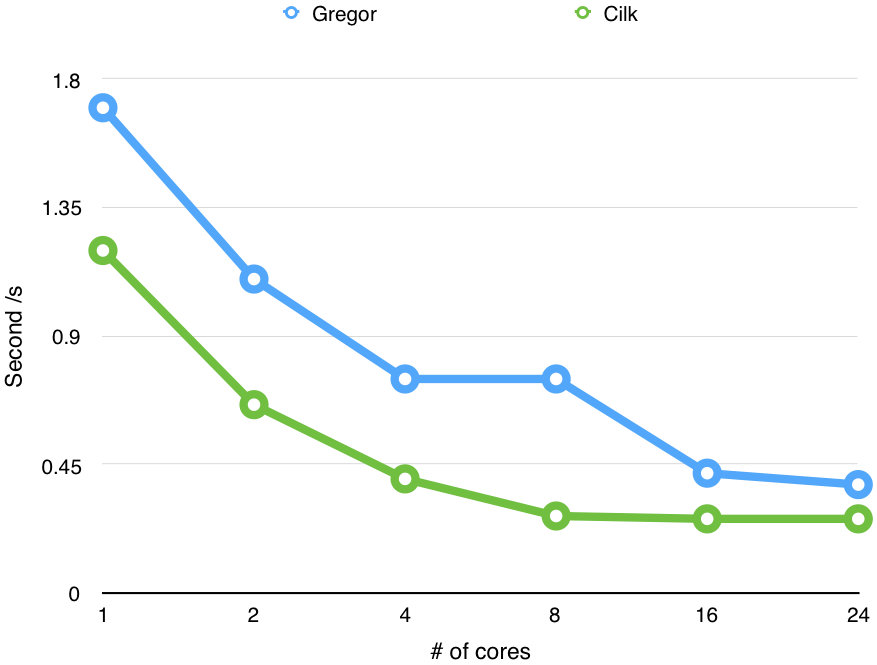
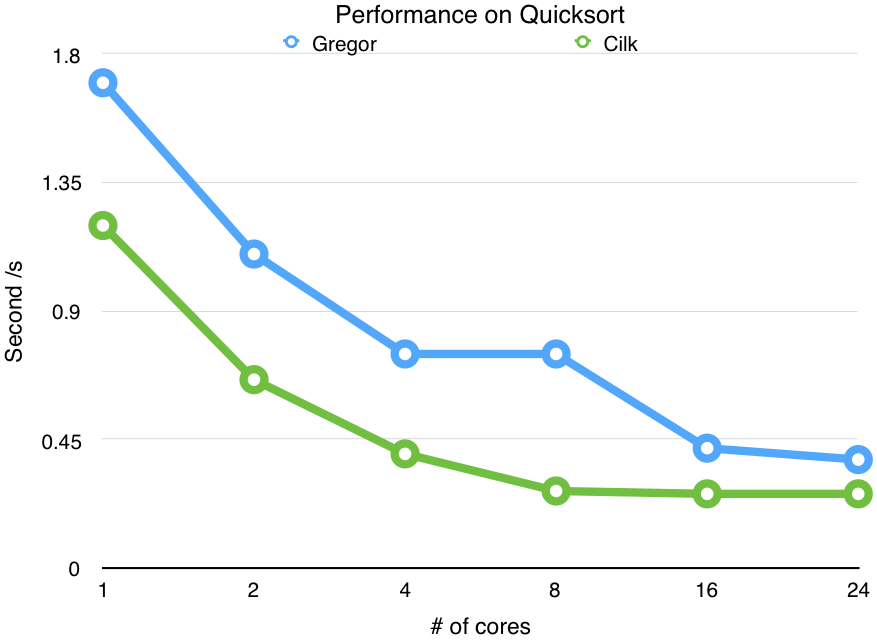
Site updated: 2016-05-08 15:47:42

diff --git a/report/index.html b/report/index.html
@@ -69,8 +69,9 @@ Summary
 Gregor is a worker-pool based multithreaded programming framework in C. It provides simple-to-use semantics of spawn and sync in Cilk, where the programmer simply identifies the i">
 <meta property="og:image" content="http://mallocanswer.github.io/3.png">
 <meta property="og:image" content="http://mallocanswer.github.io/1.png">
+<meta property="og:image" content="http://mallocanswer.github.io/4.png">
 <meta property="og:image" content="http://mallocanswer.github.io/5.png">
-<meta property="og:updated_time" content="2016-05-08T19:43:43.000Z">
+<meta property="og:updated_time" content="2016-05-08T19:47:36.000Z">
 <meta name="twitter:card" content="summary">
 <meta name="twitter:title" content="report">
 <meta name="twitter:description" content="Final Report
@@ -276,9 +277,11 @@ The applications are described below (the orginal implementation is from <sup cl
 <p><img src="1.png" alt="Different Applications"></p>
 <p>The chart shows our implementation has comparable performance with cilk. Interestingly, for<code>lu</code> when span of the algorithm decreases, the performance of cilk decreases aggresively (even slower than serial version) which indicates the non-trivial overhead of cilk scheduler. In other applications, the performance of our implementation is within 10% to 100% of cilk’s performance.</p>
 <h3>Performance on Different Number of Cores</h3>
-<p>In order to test the scalability of our implementation, we run <code>lu</code> application multiple times with different number of cores.</p>
-<p><img src="5.png" alt="Different Number of cores"><br>
-The chart shows the performance of our implementation improves with the increasing number of cores we use.</p>
+<p>In order to test the scalability of our implementation, we run <code>lu</code> application multiple times with different number of cores.<br>
+<img src="4.png" alt="Different Number of cores"><br>
+We also run <code>Quicksort</code> multiple times with different number of cores.<br>
+<img src="5.png" alt="Different Number of cores"><br>
+The charts show the performance of our implementation improves with the increasing number of cores we use.</p>
 <h2>Schedule</h2>
 <table>
 <thead>
